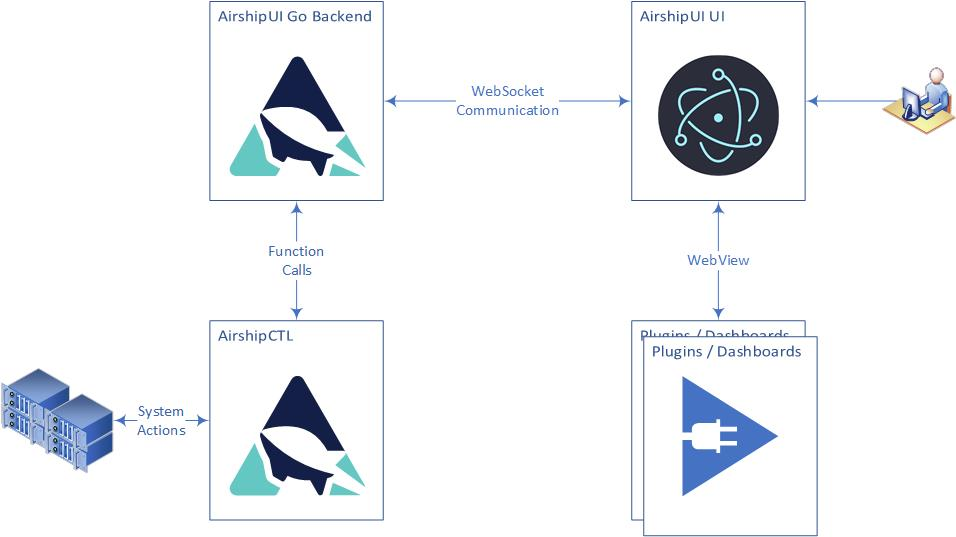
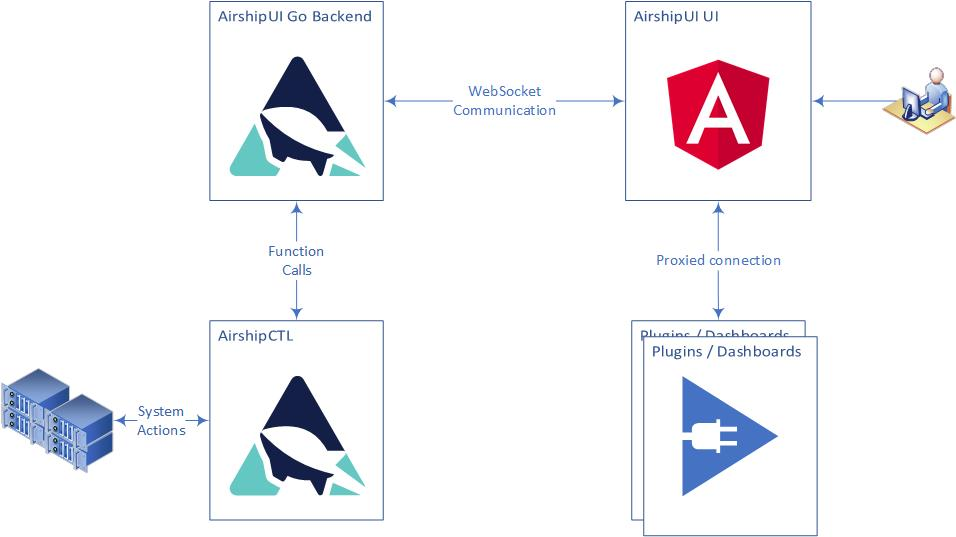
Update documentation for proxies and improved diagrams
Also removed some of the older no longer relevant docs

Changed region(s): [[0.637, 0.0, 0.8797, 0.3575], [0.455, 0.149, 0.5764, 0.2384], [0.6674, 0.4767, 0.819, 0.5065]]

diff --git a/docs/source/developers.md b/docs/source/developers.md
@@ -10,36 +10,14 @@ Clone the Airship UI repository and build.
     git clone https://opendev.org/airship/airshipui
     cd airshipui
     make
-    make install-npm-modules # Note running behind a proxy can cause issues, notes on solving is in the Appendix
     make examples # (optional)
-    make install-octant-plugins # (if running with octant)
 
 **NOTE**
 Make will install node.js v12 into your tools directory and will use that as the node binary for the UI testing and launching.
 
-
 Run the airshipui binary
 
     ./bin/airshipui
-
-# Running on a separate client & server
-For development purposes it could be advantageous to split the webservice and the UI across 2 machines.
-
-## To start the webservice on a remote system without starting the ui
-
-    bin/airshipui --headless
-
-This will require you to tunnel the connection to the remote machine:
-
-    ssh -L 8080:localhost:8080 <id>@<remote_host>
-
-## To start the UI to attach to a remote machine
-
-    bin/airshipui --remote
-
-## Running the webservice on a remote machine with plugins
-The plugins can run on the remote system but you will need to add additional SSH tunnels to the machine in order for it to work.
-The plugins can also run locally but the remote server will still need the definition on the remote system to notify the UI that the plugins are available.
 
 # Authentication
 ## Pluggable authentication methods
@@ -67,22 +45,6 @@ go run examples/authentication/main.go
 + The example auth server id is: airshipui
 + The example auth server password is: Open Sesame!
 
-# Plugins
-## Octant
-[Octant](https://github.com/vmware-tanzu/octant) is a tool for developers to understand how applications run on a Kubernetes cluster. It aims to be part of the developer's toolkit for gaining insight and approaching complexity found in Kubernetes. Octant offers a combination of introspective tooling, cluster navigation, and object management along with a plugin system to further extend its capabilities.
-
-Octant needs to be pointed to a Kubernetes Cluster. For development it is recommended to use [Minikube](https://kubernetes.io/docs/tasks/tools/install-minikube/)
-
-### How to get and build Octant
-If you are going to do serious Octant development you will need to adhere to [Octant's Hacking Guide](https://github.com/vmware-tanzu/octant/blob/master/HACKING.md) which includes information on how to build Octant and the steps to push changes to them.
-
-### Running the example
-Build the octant plugin executable
-```
-make install-octant-plugins
-```
-Run the octant binary and the plugin should show "Hello World just some text on the page" under the http://127.0.0.1:7777/#/airshipui-example-plugin url.
-
 ## Behind the scenes
 
 ### Communication with the backend
@@ -92,6 +54,12 @@ The UI will initiate the websocket and request data.  The backend uses a functio
 
 ### AirshipUI interaction
 ![AirshipUI Interactions](../img/sequence.jpg "AirshipUI Interactions")
+
+### Communication with the dashboards
+Dashboards may or may not be generally available for end users based on the cluster the AirshipUI is deployed to.  If access to the endpoint is controlled in a way that is not easy to manipulate or if a Single Sign On approach is necessary the AirhshipUI provides the ability to proxy the targeted dashboard.
+
+### AirshipUI proxy interaction
+![AirshipUI Interactions](../img/proxy.jpg "AirshipUI Interactions")
 
 ## Appendix
 
